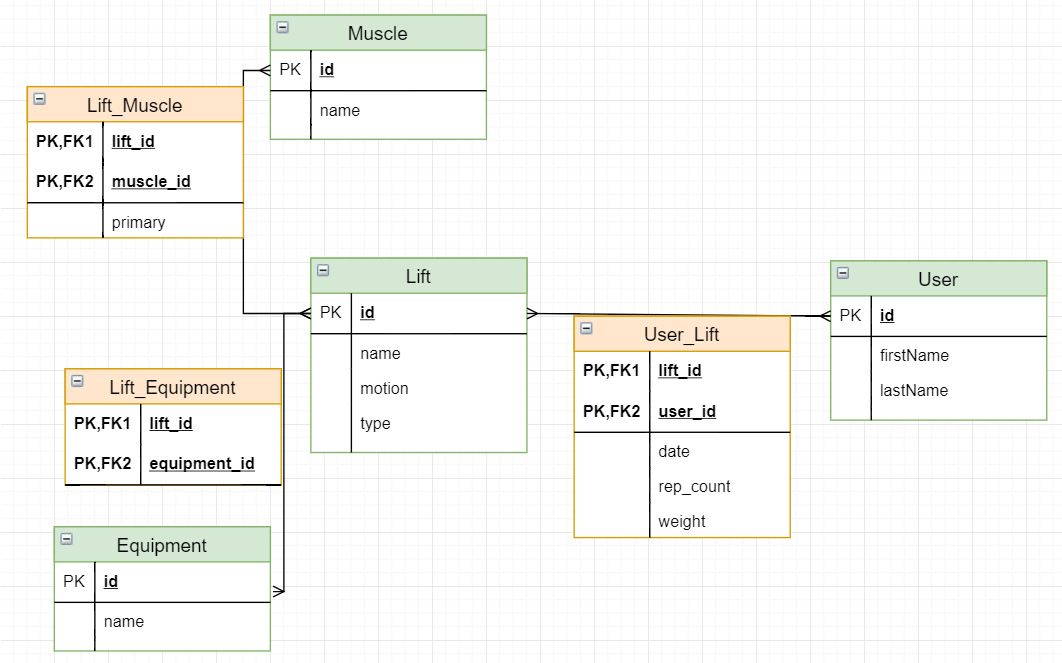
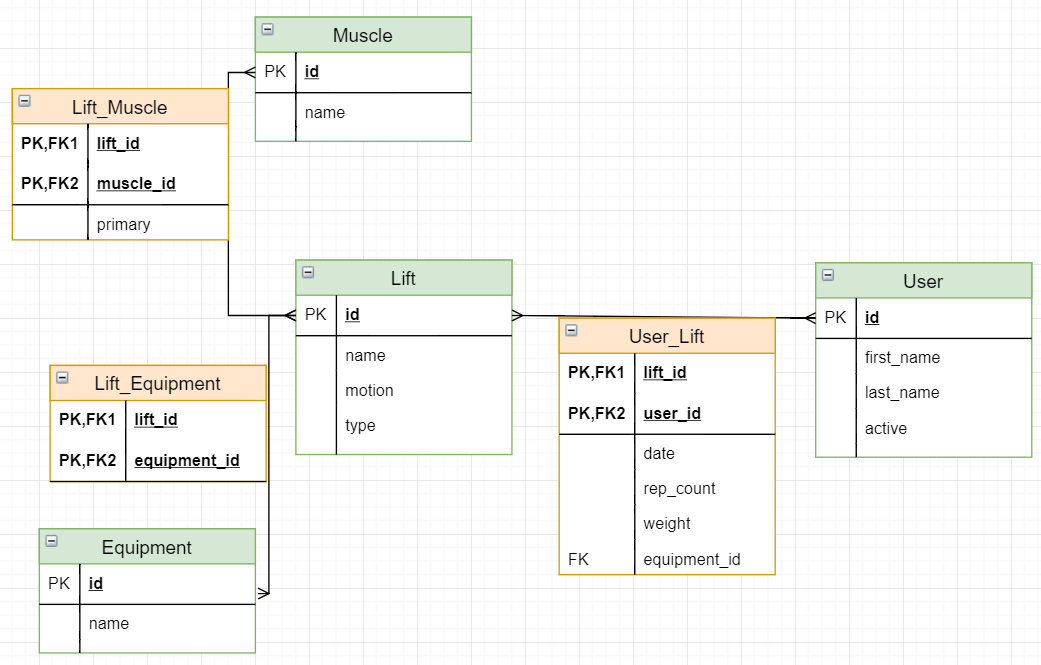
completed models and associations

diff --git a/server/database/build_db.js b/server/database/build_db.js
@@ -1,0 +1,41 @@
+'use strict';
+
+const sequelize = require('sequelize');
+// const qui = require('sequelize/lib/query-interface'); TODO: remove if not needed
+const app = require('../app/app');
+const models = require('../app/models');
+
+const lifts = require('./json/lifts');
+const muscles = require('./json/muscle-groups');
+const paymentOptions = require('./json/paymentOptions');
+const products = require('./json/products');
+const orders = require('./json/orders');
+const productOrders = require('./json/productOrders');
+
+const createDb = qi => {
+  return models.sequelize.sync({force: true})
+    .then(qi => {
+      return models.Lift.bulkCreate(lifts);
+    })
+    .then(qi => {
+      return models.ProductType.bulkCreate(muscles);
+    })
+    .then(qi => {
+      return models.PaymentOption.bulkCreate(paymentOptions);
+    })
+    .then(qi => {
+      return models.Product.bulkCreate(products);
+    })
+    .then(qi => {
+      return models.Order.bulkCreate(orders);
+    })
+    .then(qi => {
+      return models.ProductOrder.bulkCreate(productOrders);
+    })
+    .then(response => {
+      process.exit();
+    })
+    .catch(err => console.log(err));
+};
+
+createDb();

diff --git a/server/models/lift.js b/server/models/lift.js
@@ -1,12 +1,25 @@
 'use strict';
 module.exports = (sequelize, DataTypes) => {
   var Lift = sequelize.define('Lift', {
+    id: {
+      type: Sequelize.INTEGER,
+      primaryKey: true,
+      autoIncrement: false
+    },
     name: DataTypes.STRING,
     motion: DataTypes.STRING,
     type: DataTypes.STRING
   }, { tableName: lifts, timestamps: false });
   Lift.associate = function(models) {
-    // associations can be defined here
+    Lift.hasMany(models.Lift_Equipment, {
+      foreignKey: "lift_id"
+    })
+    Lift.hasMany(models.Lift_Muscle, {
+      foreignKey: "lift_id"
+    })
+    Lift.hasMany(models.User_Lift, {
+      foreignKey: "lift_id"
+    })
   };
   return Lift;
 };

diff --git a/server/models/equipment.js b/server/models/equipment.js
@@ -1,10 +1,20 @@
 'use strict';
 module.exports = (sequelize, DataTypes) => {
   var Equipment = sequelize.define('Equipment', {
+    id: {
+      type: Sequelize.INTEGER,
+      primaryKey: true,
+      autoIncrement: false
+    },
     name: DataTypes.STRING
   }, {tableName: equipment, timestamps: false });
   Equipment.associate = function(models) {
-    // associations can be defined here
+    Equipment.hasMany(models.Lift_Equipment, {
+      foreignKey: "equipment_id"
+    });
+    Equipment.hasMany(models.User_Lift, {
+      foreignKey: 'equipment_id'
+    });
   };
   return Equipment;
 };

diff --git a/server/models/lift_muscle.js b/server/models/lift_muscle.js
@@ -1,12 +1,15 @@
 'use strict';
 module.exports = (sequelize, DataTypes) => {
   var Lift_Muscle = sequelize.define('Lift_Muscle', {
-    lift_id: DataTypes.INTEGER,
-    muscle_id: DataTypes.INTEGER,
     primary: DataTypes.BOOLEAN
   }, { tableName: lift_muscle, timestamps: false });
   Lift_Muscle.associate = function(models) {
-    // associations can be defined here
+    Lift_Muscle.belongsTo(models.Lift, {
+      foreignKey: 'lift_id'
+    });
+    Lift_Muscle.belongsTo(models.muscle, {
+      foreignKey: 'muscle_id'
+    });
   };
   return Lift_Muscle;
 };

diff --git a/server/models/muscle.js b/server/models/muscle.js
@@ -1,10 +1,17 @@
 'use strict';
 module.exports = (sequelize, DataTypes) => {
   var Muscle = sequelize.define('Muscle', {
+    id: {
+      type: Sequelize.INTEGER,
+      primaryKey: true,
+      autoIncrement: false
+    },
     name: DataTypes.STRING
   }, { tableName: muscles, timestamps: false });
   Muscle.associate = function(models) {
-    // associations can be defined here
+    Muscle.hasMany(models.lift_muscle, {
+      foreignKey: 'muscle_id'
+    })
   };
   return Muscle;
 };

diff --git a/server/models/user_lift.js b/server/models/user_lift.js
@@ -7,7 +7,15 @@ module.exports = (sequelize, DataTypes) => {
     rep_count: DataTypes.INTEGER
   }, { tableName: user_lift } );
   User_Lift.associate = function(models) {
-    // associations can be defined here
+    User_Lift.belongsTo(models.User, {
+      foreignKey: 'user_id'
+    });
+    User_Lift.belongsTo(models.Lift, {
+      foreignKey: 'lift_id'
+    });
+    User_Lift.belongsTo(models.Equipment, {
+      foreignKey: 'equipment_id'
+    });
   };
   return User_Lift;
 };

diff --git a/server/models/lift_equipment.js b/server/models/lift_equipment.js
@@ -5,7 +5,12 @@ module.exports = (sequelize, DataTypes) => {
     equipment_id: DataTypes.INTEGER
   }, { tableName: lift_equipment, timestamps: false });
   Lift_Equipment.associate = function(models) {
-    // associations can be defined here
+    Lift_Equipment.belongsTo(models.Lift, {
+      foreignKey: 'lift_id'
+    });
+    Lift_Equipment.belongsTo(models.Equipment, {
+      foreignKey: 'equipment_id'
+    });
   };
   return Lift_Equipment;
 };

diff --git a/server/models/user.js b/server/models/user.js
@@ -6,7 +6,9 @@ module.exports = (sequelize, DataTypes) => {
     active: DataTypes.BOOLEAN
   }, { tableName: users } );
   User.associate = function(models) {
-    // associations can be defined here
+    User.hasMany(models.User_Lift, {
+      foreignKey: "user_id"
+    })
   };
   return User;
 };
